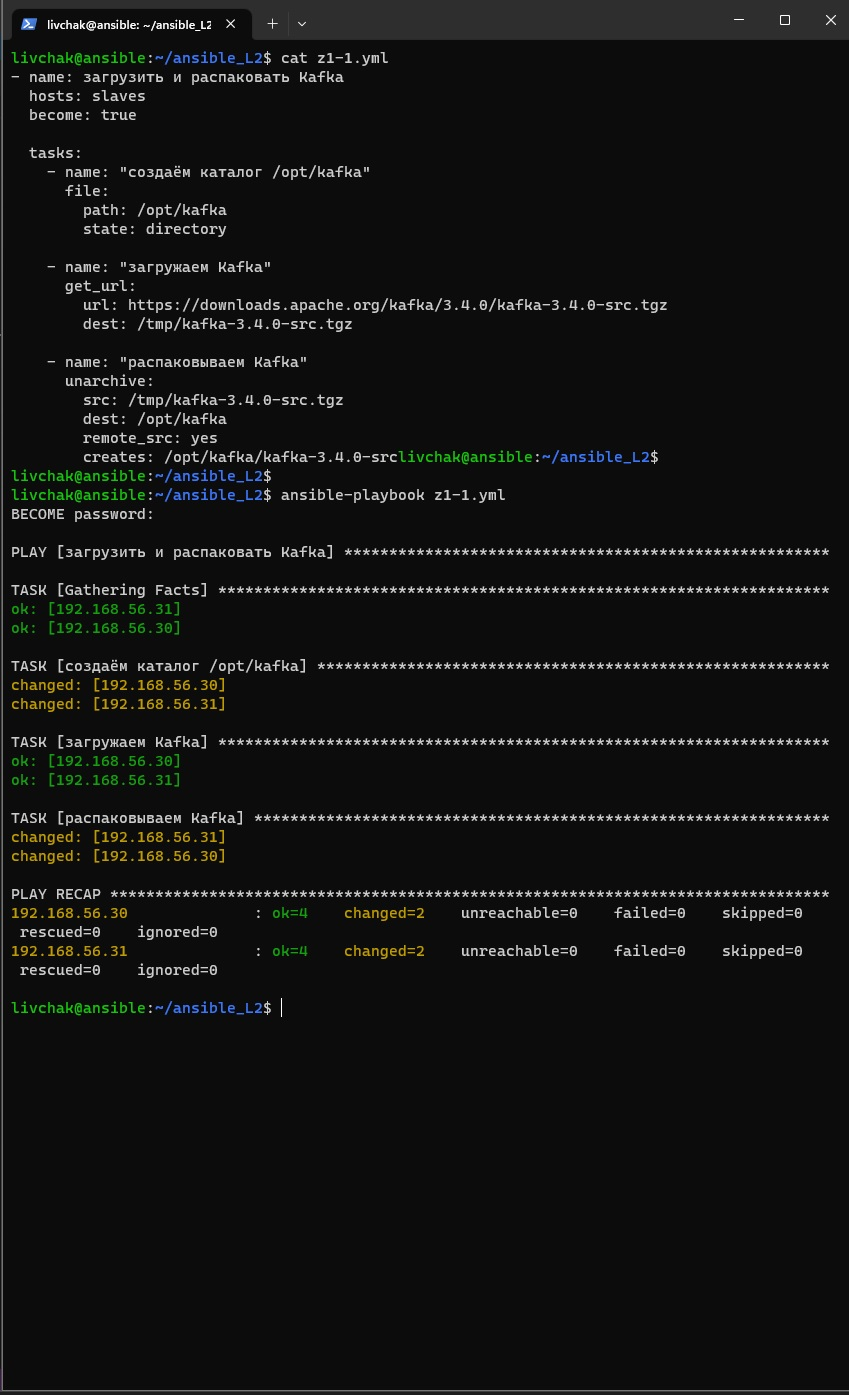
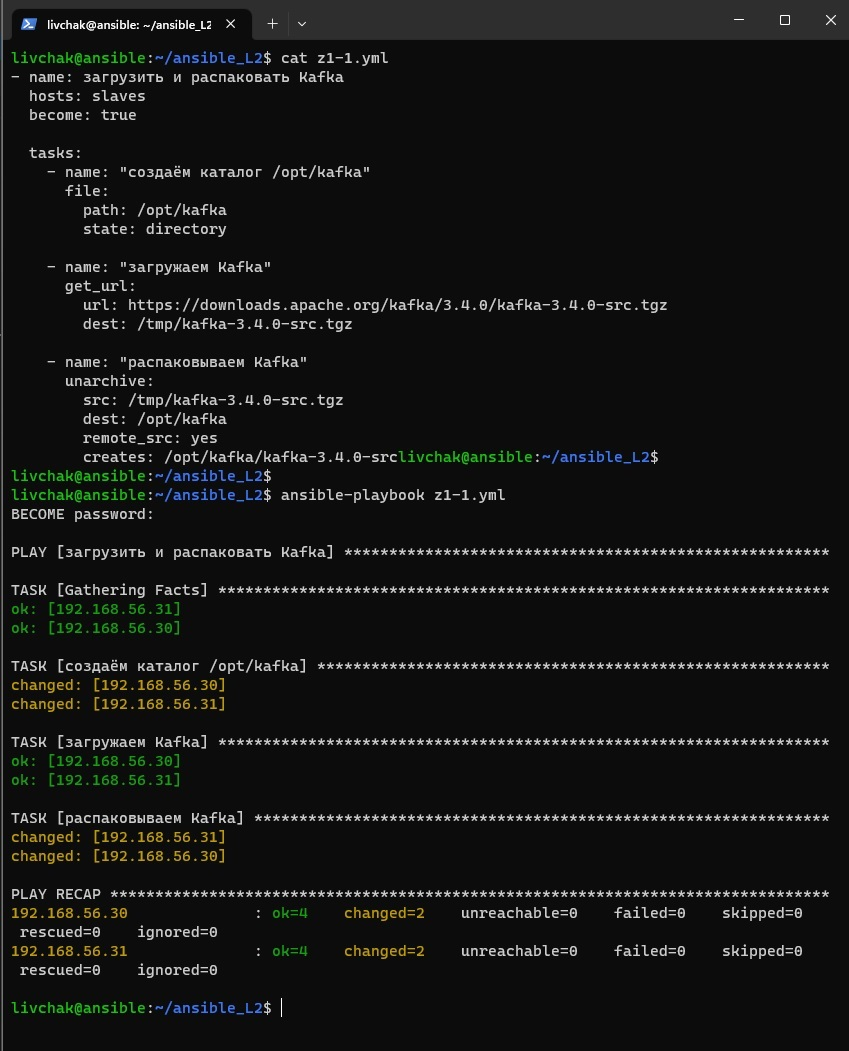
публикация задания 1

diff --git a/README.md b/README.md
@@ -1,14 +1,39 @@
-# Домашнее задание к занятию "`9-01hw`" - `Ливчак Сергей`
+# Домашнее задание к занятию "`7-22hw`" - `Ливчак Сергей`
 
 
 ### Задание 1
 
-`Дашборд, на котором будет видно загрузку процессора`
+`Напишите три плейбука. При написании рекомендуем использовать текстовый редактор с подсветкой синтаксиса YAML.`
 
-1. `На график выведены параметры cpu_utilization и cpu_usage, попытался дать некоторую нагрузку`
+1. `Скачать архив, создать папку для распаковки и распаковать скаченный архив.`
 
-**Скриншот 1** cpu_utilization и cpu_usage
-<img src = "img/ya-monitoring.jpg" width = 100%>
+**Скриншот 1** Задание 1-1
+<img src = "img/z1_1.jpg" width = 100%>
+
+1. `Установить пакет tuned из стандартного репозитория вашей ОС. Запустить его, как демон — конфигурационный файл systemd появится автоматически при установке. Добавить tuned в автозагрузку.`
+
+**Скриншот 1** Задание 1-2
+<img src = "img/z1_2.jpg" width = 100%>
+
+1. `Изменить приветствие системы (motd) при входе на другое с использование переменных в ansible.`
+
+**Скриншот 1** Задание 1-3
+<img src = "img/z1_3.jpg" width = 100%>
+
+
+
+
+
+
+
+
+
+
+
+
+
+
+
 
 ---
 
